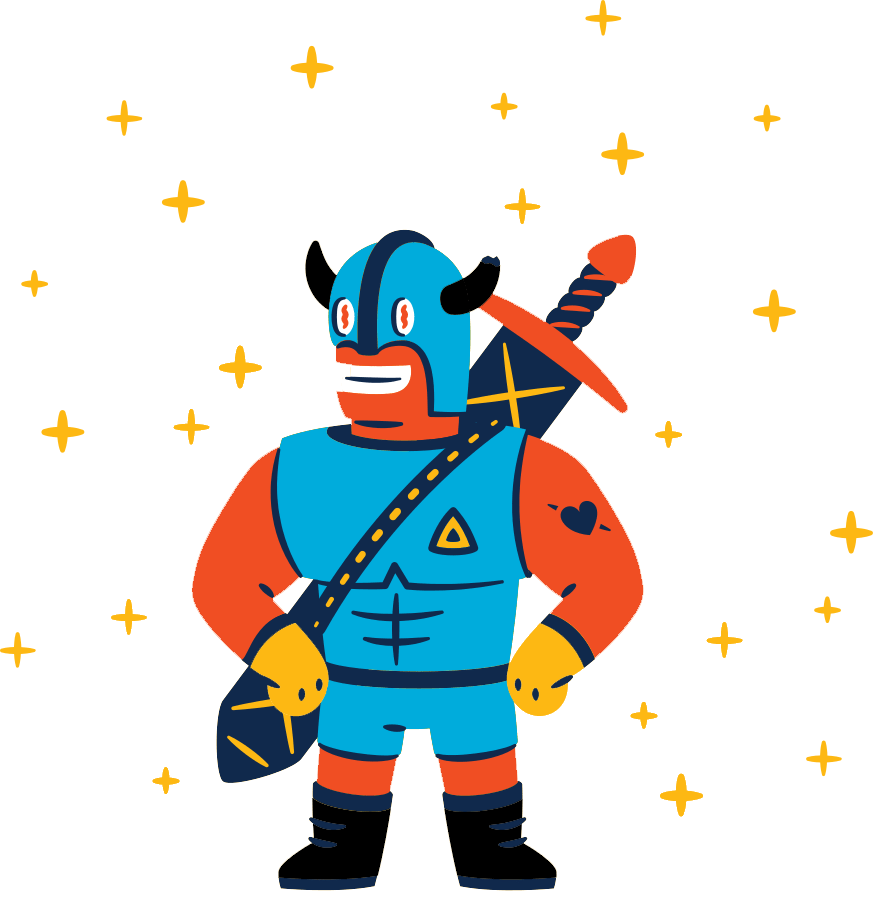
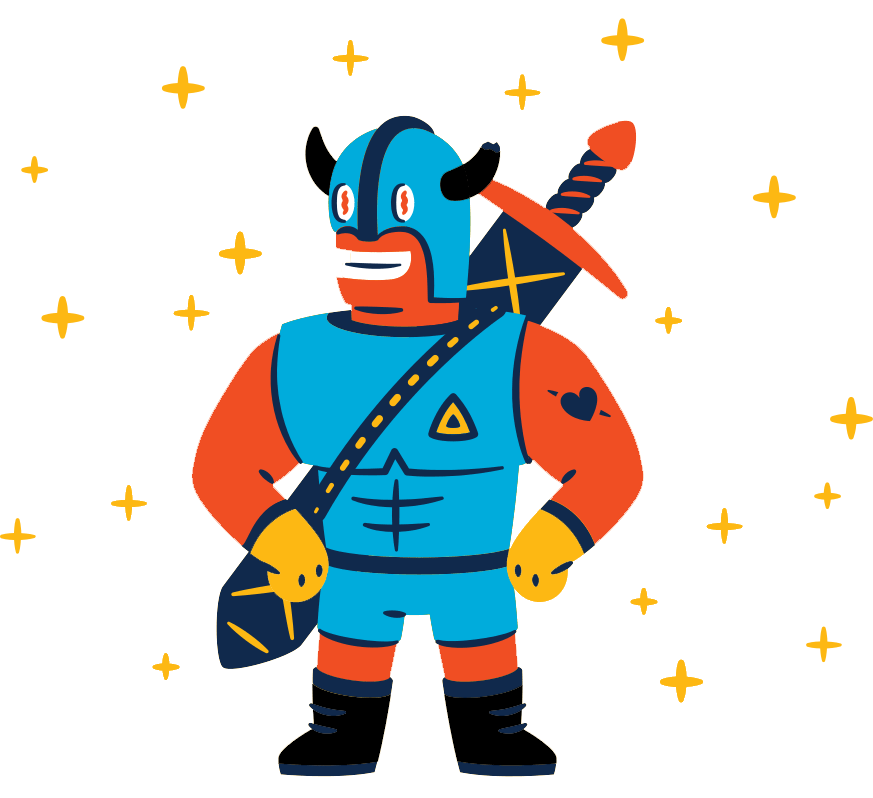
Responsive Section 2 & 3

diff --git a/index.html b/index.html
@@ -84,7 +84,7 @@
               </div>
               <p class="captionWord">Home of Open Source Heroes</p>
               <p class="captionParagraph">
-                Come change the world with us.
+                Come change the world with us
               </p>
             </div>
             <a data-menuanchor="secondPage" href="#secondPage">
@@ -98,19 +98,23 @@
         <div class="container">
           <div class="s11">
             <div class="blog-section-1">
-              <img class="hero" src="/img/flame-remote-working.png" />
-              <a href="https://github.com/teamxenox">
-                <button class="blogButton">
-                  Explore Projects &#8594;
-                </button>
-              </a>
-              <p class="captionPara">
-                Are you passionate about open-source development and looking to
-                contribute? Team XenoX might just be your calling. We're take
-                open-source development to the next level, and we're always
-                working on something amazing. We'd love for you to join us!
-                Check out our work.
-              </p>
+              <div class="imgSection vert-move-img">
+                <img class="hero" src="/img/flame-remote-working.png" />
+              </div>
+              <div class="captionBlock">
+                <p class="captionPara">
+                  Are you passionate about open-source development and looking
+                  to contribute? Team XenoX might just be your calling. We're
+                  take open-source development to the next level, and we're
+                  always working on something amazing. We'd love for you to join
+                  us! Check out our work.
+                </p>
+                <a href="https://github.com/teamxenox">
+                  <button class="blogButton">
+                    Explore Projects
+                  </button>
+                </a>
+              </div>
             </div>
           </div>
         </div>
@@ -119,21 +123,23 @@
         <div class="container">
           <div class="s11">
             <div class="blog-section-1 BeforeScroll" id="divToShowHide">
-              <div class="hero-image">
-                <img class="hero" src="img/flame-upgradetrans.png" />
+              <div class="imgSection vert-move-img">
+                <img class="hero altmobimg" src="img/flame-upgradetrans.png" />
               </div>
-              <a href="https://github.com/teamxenox/XenoXMultiverse">
-                <button class="blogButton">
-                  Join our Community of Heroes &#8594;
-                </button>
-              </a>
-              <p class="captionPara">
-                What started out as a small team of devs working on open-source
-                projects for the fun of it has grown bigger and stronger
-                steadily and is now Team XenoX. If you like our work, join our
-                team and change the world with us, bit by bit every day. Let's
-                unleash the power of open-source development.
-              </p>
+              <div class="captionBlock">
+                <p class="captionPara">
+                  What started out as a small team of devs working on
+                  open-source projects for the fun of it has grown bigger and
+                  stronger steadily and is now Team XenoX. If you like our work,
+                  join our team and change the world with us. Let's unleash the
+                  power of open-source development.
+                </p>
+                <a href="https://github.com/teamxenox/XenoXMultiverse">
+                  <button class="blogButton">
+                    Join our Community of Heroes
+                  </button>
+                </a>
+              </div>
             </div>
           </div>
         </div>
@@ -217,7 +223,7 @@
       new fullpage("#fullPage", {
         autoScrolling: true,
         navigation: true,
-        scrollingSpeed: 80,
+        scrollingSpeed: 500,
         scrollBar: false,
         keyboardScrolling: true,
         verticalCentered: true,

diff --git a/css/style.css b/css/style.css
@@ -212,7 +212,7 @@ ul li {
   text-align: center;
   line-height: 25px;
   font-weight: 900;
-  font-size: 1.4vw;
+  font-size: 1.5vw;
 }
 .joinButton {
   border: 2px #141414 solid;
@@ -289,11 +289,8 @@ span {
 }
 
 .hero {
-  /* width: 100%;  */
-  height: 300px;
-  display: block;
+  width: 100%;
   margin: auto;
-  margin-bottom: 30px;
 }
 
 .footer {
@@ -388,6 +385,32 @@ span {
     transform: translateY(-50px);
   }
 }
+
+.vert-move-img {
+  -webkit-animation: mover 2s infinite alternate;
+  animation: mover 2s infinite alternate;
+}
+.vert-move-img {
+  -webkit-animation: mover 2s infinite alternate;
+  animation: mover 2s infinite alternate;
+}
+@-webkit-keyframes mover {
+  0% {
+    transform: translateY(0);
+  }
+  100% {
+    transform: translateY(-20px);
+  }
+}
+@keyframes mover {
+  0% {
+    transform: translateY(0);
+  }
+  100% {
+    transform: translateY(-20px);
+  }
+}
+
 .blog-section-mobile {
   display: none;
 }
@@ -414,4 +437,16 @@ span {
   font-size: 1.2em;
   display: flex;
   justify-content: space-between;
+}
+
+.imgSection {
+  width: 30%;
+  display: inline-block;
+  vertical-align: middle;
+}
+
+.captionBlock {
+  width: 50%;
+  display: inline-block;
+  vertical-align: middle;
 }

diff --git a/css/res.css b/css/res.css
@@ -50,6 +50,23 @@
     padding: 8%;
   }
 
+  .imgSection {
+    width: 100%;
+    display: block;
+  }
+
+  .hero {
+    width: 50%;
+  }
+
+  .captionBlock {
+    width: 100%;
+  }
+
+  .blog-section-1 p {
+    font-size: 2.5vw;
+  }
+
   .navbar {
     display: none;
   }
@@ -128,6 +145,7 @@
   .captionWord {
     margin-top: -4%;
     font-size: 5vw;
+    text-shadow: 2px 1px #141414;
   }
 
   .captionParagraph {
@@ -152,9 +170,32 @@
 
   .captionParagraph {
     font-size: 4vw;
+    text-shadow: 1px 1px red;
   }
 
   .arrow {
     margin-top: -5%;
+  }
+
+  .hero {
+    width: 95%;
+  }
+
+  .blogButton {
+    margin-top: 15px;
+  }
+
+  .blog-section-1 p {
+    margin: 2px;
+    font-size: 4vw;
+    line-height: 150%;
+  }
+
+  .blog-section-1 {
+    margin-top: 15%;
+  }
+
+  .altmobimg {
+    width: 88%;
   }
 }
